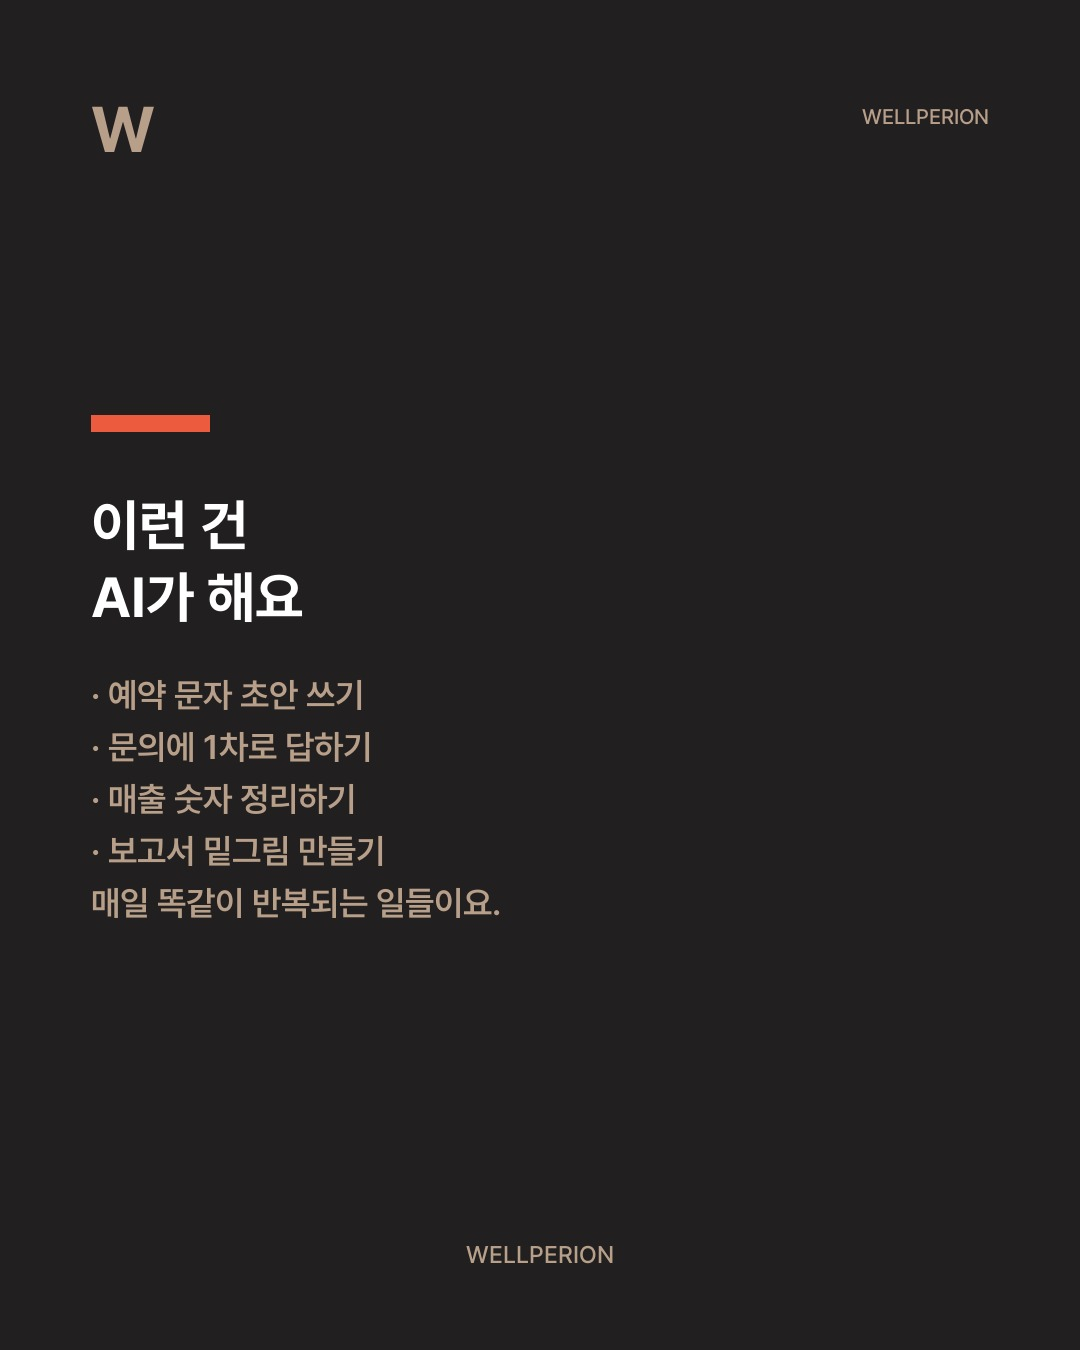
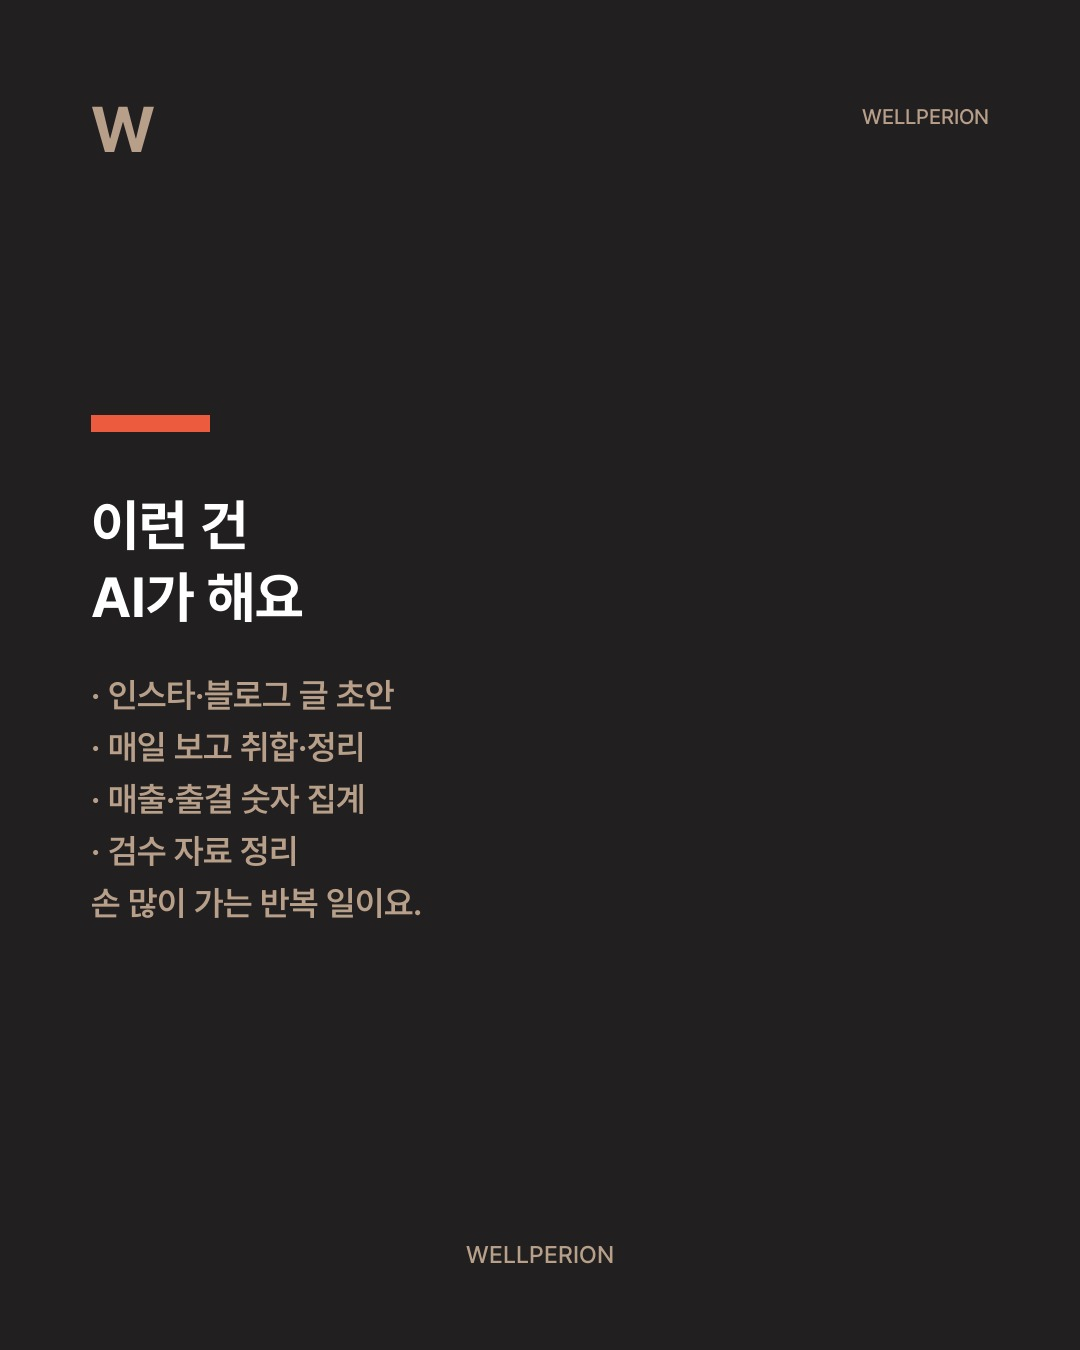
fix(cmo): AI #4 슬라이드 4·5 본문 현장 교정(deep-interview) — AI=콘텐츠·보고 자동화 / 나=소통·검수결정·트렌드. preview v3

Changed region(s): [[0.0917, 0.4978, 0.4583, 0.6844]]

diff --git a/3. 웰페리온 가이드/wellperion_guide(main).html b/3. 웰페리온 가이드/wellperion_guide(main).html
@@ -631,17 +631,17 @@
     <!-- AUTO:LATEST-START -->
     <div class="card grow">
       <h4>최신 업데이트 — 2026-06-03 (자동 갱신)</h4>
+      <p><strong>2026-06-03</strong> refactor(guidehub): S4 업무자동화 현황 → T4 업무자동화SSOT 일원화 (중복·stale 제거)</p>
       <p><strong>2026-06-03</strong> feat(coo): S4 최상단 핵심 KPI 스트립 — 업무·결재 SSOT 대시보드 지표 실시간 집계</p>
       <p><strong>2026-06-03</strong> fix(cmo): M5 #4 미리보기 캐시 우회 — preview 파일명 v2로 교체</p>
       <p><strong>2026-06-03</strong> fix(cmo): AI #4 마지막장 슬로건 교체 — 'AI를 다루는 대표가 살아남는다' (GM 지시, 검수대기 유지)</p>
       <p><strong>2026-06-03</strong> fix(cmo): 네이버 setup 시작 시 기존 세션 비움 — 옛 계정 즉시감지로 조기종료 방지</p>
-      <p><strong>2026-06-03</strong> feat(coo): S4 진행 업무 건수 SSOT 시트 실시간 자동 동기화</p>
     </div>
 <!-- AUTO:LATEST-END -->
         <table>
           <tr><th style="width:160px">날짜</th><th>변경 내용</th></tr>
           <!-- AUTO:TABLE-START -->
-      <tr><td><strong>2026-06-03 (자동)</strong></td><td>feat(coo): S4 최상단 핵심 KPI 스트립 — 업무·결재 SSOT 대시보드 지표 실시간 집계 · fix(cmo): M5 #4 미리보기 캐시 우회 — preview 파일명 v2로 교체 · fix(cmo): AI #4 마지막장 슬로건 교체 — 'AI를 다루는 대표가 살아남는다' (GM 지시, 검수대기 유지) · fix(cmo): 네이버 setup…</td></tr>
+      <tr><td><strong>2026-06-03 (자동)</strong></td><td>refactor(guidehub): S4 업무자동화 현황 → T4 업무자동화SSOT 일원화 (중복·stale 제거) · feat(coo): S4 최상단 핵심 KPI 스트립 — 업무·결재 SSOT 대시보드 지표 실시간 집계 · fix(cmo): M5 #4 미리보기 캐시 우회 — preview 파일명 v2로 교체 · fix(cmo): AI #4 마지막장 …</td></tr>
       <!-- AUTO:TABLE-END -->
           <tr><td><strong>2026-05-28 (14차)</strong></td><td>공지/안내문 생성(COO 하위) · 오프라인 홍보물 디자인 제작(CMO 하위) 도구 신설 · 공지 서식 v2.0 독립 페이지화 · 회사소개서·전략로드맵 원본 「3. 웰페리온 가이드/회사문서/」로 이관(SSOT 단일화) · C-Level 부팅 R/R Notion API→가이드허브 g10 참조로 전환 · GitHub Pages 워크플로 폴더명 경로 수정 · 사이드바 "공통+7개 C-Level" 라벨 제거</td></tr>
           <tr><td>2026-05-27 (13차)</td><td>GitHub Pages 전환 · 사이드바 4섹터 · AI C-Level 통일 · 운영 통합 체계 · 공식채널·지출현황·취업규칙·SSOT 신설 · g2+g19·g9+g20·g12·g13 합병 · 김남욱 탭 확장 · v2.5</td></tr>
@@ -4825,15 +4825,15 @@ function crTab(btn, panelId) {
         <h4>📋 현재 등록된 9건 (실측)</h4>
         <table>
           <tr><th style="width:300px">예약작업</th><th style="width:84px">상태</th><th>역할 · 비고</th></tr>
-          <tr><td><code>WellperionTelegramBot</code></td><td>🟢 상시</td><td>텔레그램 봇 — C-Level 보고·GM 지시 중계 <span style="color:var(--dim);">(숨김 런처 적용 대기)</span></td></tr>
-          <tr><td><code>WellperionDailyScheduler</code></td><td>🟢 상시</td><td>정각 보고 스케줄러 <span style="color:var(--dim);">(숨김 런처 적용 대기)</span></td></tr>
-          <tr><td><code>Wellperion-IG-Publish-Watcher</code></td><td>🟢 상시</td><td>인스타 검수 승인→자동 발행 감시(120초 폴링). 그동안 떠 있던 검은 창의 주범 → <span style="color:var(--dim);">숨김 런처 적용 대기</span></td></tr>
+          <tr><td><code>WellperionTelegramBot</code></td><td>🟢 상시</td><td>텔레그램 봇 — C-Level 보고·GM 지시 중계 <span style="color:var(--dim);">(숨김 런처 적용됨 ✅)</span></td></tr>
+          <tr><td><code>WellperionDailyScheduler</code></td><td>🟢 상시</td><td>정각 보고 스케줄러 <span style="color:var(--dim);">(숨김 런처 적용됨 ✅)</span></td></tr>
+          <tr><td><code>Wellperion-IG-Publish-Watcher</code></td><td>🟢 상시</td><td>인스타 검수 승인→자동 발행 감시(120초 폴링). 그동안 떠 있던 검은 창의 주범 → <span style="color:var(--dim);">숨김 런처 적용됨 ✅ (검은 창 제거)</span></td></tr>
           <tr><td><code>Wellperion-CEO-Morning-Brief-0800-Live</code></td><td>✅ 정상</td><td>매일 08:00 아침 통합보고 (ceo_morning_pipeline.py)</td></tr>
           <tr><td><code>Wellperion-PC-Shutdown-Greeting-Live</code></td><td>✅ 정상</td><td>22:25 퇴근 인사</td></tr>
           <tr><td><code>Wellperion-AI-Education-Weekly</code></td><td>✅ 정상</td><td>매주 월 09:30 교육자료 학습 수집</td></tr>
           <tr><td><code>Wellperion-Education-Archive-Weekly</code></td><td>✅ 정상</td><td>매주 월 09:00 교육자료 정리</td></tr>
-          <tr><td><code>Wellperion-Morning-Update</code></td><td>🔧 수정</td><td>매일 05:40 claude/npm 업데이트. 배터리 거부(0x800710E0) 실패 → 배터리조건 해제 수정 <span style="color:var(--dim);">(적용 대기)</span></td></tr>
-          <tr><td><code>Wellperion-CEO-Verify-Watcher</code></td><td>🔧 비활성</td><td>대상 스크립트(ceo_verify_watcher.py) git 미추적·부재 고아 → 매 로그인 실패. 비활성 처리 <span style="color:var(--dim);">(적용 대기)</span>. 부활 시 스크립트 재작성 선행</td></tr>
+          <tr><td><code>Wellperion-Morning-Update</code></td><td>🔧 수정</td><td>매일 05:40 claude/npm 업데이트. 배터리 거부(0x800710E0) 실패 → 배터리조건 해제 수정 <span style="color:var(--dim);">(적용 완료 ✅)</span></td></tr>
+          <tr><td><code>Wellperion-CEO-Verify-Watcher</code></td><td>🔧 비활성</td><td>대상 스크립트(ceo_verify_watcher.py) git 미추적·부재 고아 → 매 로그인 실패. 비활성 처리 <span style="color:var(--dim);">(적용 완료 ✅)</span>. 부활 시 스크립트 재작성 선행</td></tr>
         </table>
         <div class="callout tip" style="margin-top:10px;"><strong>🔧 손볼 것 2건 + 검은창 숨김 = <code>fix_task_windows.bat</code> 관리자 1회 실행으로 한 번에 적용.</strong> 봇·스케줄러·인스타발행을 숨김 런처로 전환 + CEO-Verify 비활성 + Morning-Update 배터리 해제 + 검은 창 즉시 제거.</div>
         <div class="callout"><strong>🗑 이미 정리 완료.</strong> 유물 예약작업 4건(AutoTask-Watcher-Start/Stop · 구 CEO-Morning-Brief-0800 · 구 PC-Shutdown-Greeting) UAC 삭제 완료(2026-06-01, 13→9). Weekly-Context-Arm도 폐기(06-02) — 주간 컨텍스트 정비는 월 09:00 텔레그램 반자동 모델로 운영. CEO_DAILY_CLEVEL_CHECK은 소스 소실로 무력.</div>

diff --git a/instagram/260603_AI4_역할분담/build_slides.py b/instagram/260603_AI4_역할분담/build_slides.py
@@ -36,11 +36,11 @@ SLIDES = [
     ),
     dict(  # 4장 AI가 하는 일 — 구체 목록
         kor_title="이런 건\nAI가 해요",
-        body="· 예약 문자 초안 쓰기\n· 문의에 1차로 답하기\n· 매출 숫자 정리하기\n· 보고서 밑그림 만들기\n매일 똑같이 반복되는 일들이요.",
+        body="· 인스타·블로그 글 초안\n· 매일 보고 취합·정리\n· 매출·출결 숫자 집계\n· 검수 자료 정리\n손 많이 가는 반복 일이요.",
     ),
     dict(  # 5장 내가 하는 일 — 구체 목록
         kor_title="이런 건\n제가 해요",
-        body="· 회원 얼굴·표정 살피기\n· 가격과 방향 정하기\n· 사람과의 관계 쌓기\n· 마지막으로 한 번 확인하기\n결국 '결정'은 사람 몫이니까요.",
+        body="· 직원·회원과 직접 소통\n· 마지막 검수와 최종 결정\n· 요즘 트렌드 파악\n결국 사람 몫은 제가 해요.",
     ),
 ]
 

diff --git a/instagram/260603_AI4_역할분담/기획_초안.md b/instagram/260603_AI4_역할분담/기획_초안.md
@@ -34,11 +34,11 @@ CTA | 개인계정 확정 — litt.ly 미사용. 'DM 문의' + '함께 성장합
 
 ### 4장 (AI가 하는 일 · 구체)
 대제목 | 이런 건\nAI가 해요
-본문 | · 예약 문자 초안 쓰기\n· 문의에 1차로 답하기\n· 매출 숫자 정리하기\n· 보고서 밑그림 만들기\n매일 똑같이 반복되는 일들이요.
+본문 | · 인스타·블로그 글 초안\n· 매일 보고 취합·정리\n· 매출·출결 숫자 집계\n· 검수 자료 정리\n손 많이 가는 반복 일이요.
 
 ### 5장 (내가 하는 일 · 구체)
 대제목 | 이런 건\n제가 해요
-본문 | · 회원 얼굴·표정 살피기\n· 가격과 방향 정하기\n· 사람과의 관계 쌓기\n· 마지막으로 한 번 확인하기\n결국 '결정'은 사람 몫이니까요.
+본문 | · 직원·회원과 직접 소통\n· 마지막 검수와 최종 결정\n· 요즘 트렌드 파악\n결국 사람 몫은 제가 해요.
 
 ### 6장 (마무리 — 슬로건 + 함께 성장 + DM)
 한글 | AI를 다루는 대표가\n살아남는다
